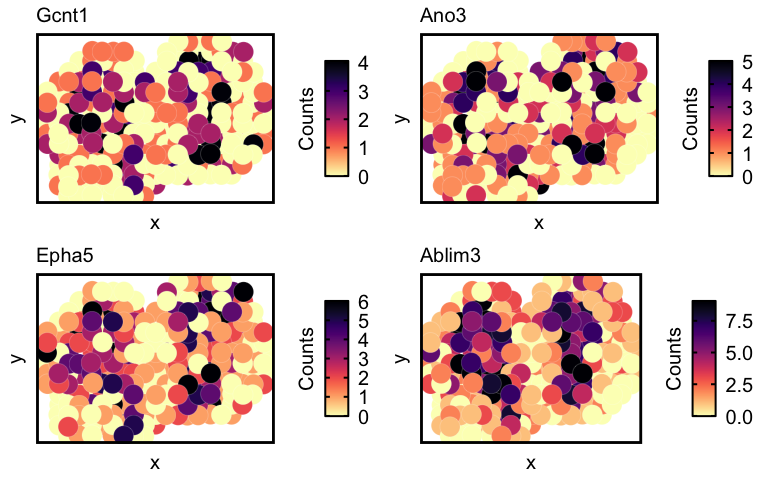
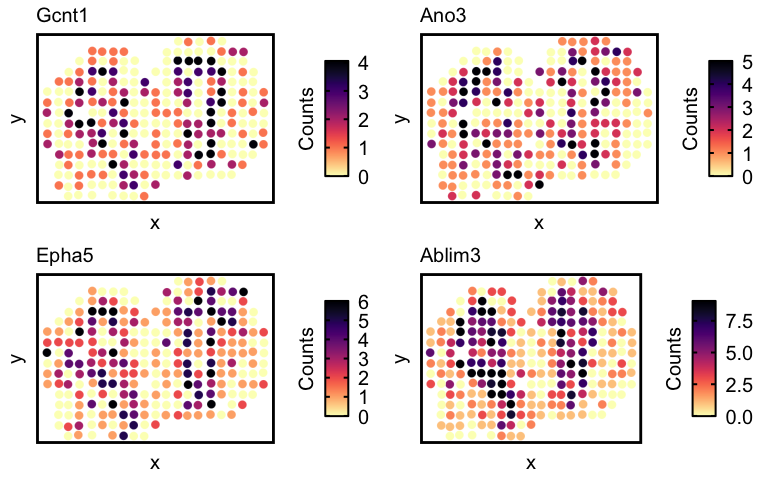
cleaned up getting_started image outputs

diff --git a/docs/getting_started.md b/docs/getting_started.md
@@ -81,52 +81,10 @@ ldas <- fitLDA(t(as.matrix(corpus)), Ks = seq(2, 9, by = 1),
                verbose=TRUE)
 ```
 
-    ## Warning in serialize(data, node$con): 'package:stats' may not be available when
-    ## loading
-
-    ## Warning in serialize(data, node$con): 'package:stats' may not be available when
-    ## loading
-
-    ## Warning in serialize(data, node$con): 'package:stats' may not be available when
-    ## loading
-
-    ## Warning in serialize(data, node$con): 'package:stats' may not be available when
-    ## loading
-
-    ## Warning in serialize(data, node$con): 'package:stats' may not be available when
-    ## loading
-
-    ## Warning in serialize(data, node$con): 'package:stats' may not be available when
-    ## loading
-
-    ## Warning in serialize(data, node$con): 'package:stats' may not be available when
-    ## loading
-
     ## [1] "Time to fit LDA models was 0.44mins"
     ## [1] "Computing perplexity for each fitted model..."
 
-    ## Warning in serialize(data, node$con): 'package:stats' may not be available when
-    ## loading
-
-    ## Warning in serialize(data, node$con): 'package:stats' may not be available when
-    ## loading
-
-    ## Warning in serialize(data, node$con): 'package:stats' may not be available when
-    ## loading
-
-    ## Warning in serialize(data, node$con): 'package:stats' may not be available when
-    ## loading
-
-    ## Warning in serialize(data, node$con): 'package:stats' may not be available when
-    ## loading
-
-    ## Warning in serialize(data, node$con): 'package:stats' may not be available when
-    ## loading
-
-    ## Warning in serialize(data, node$con): 'package:stats' may not be available when
-    ## loading
-
-    ## [1] "Time to compute perplexities was 0.17mins"
+    ## [1] "Time to compute perplexities was 0.14mins"
     ## [1] "Getting predicted cell-types at low proportions..."
     ## [1] "Time to compute cell-types at low proportions was 0mins"
     ## [1] "Plotting..."
@@ -261,13 +219,13 @@ ps <- lapply(markers, function(marker) {
               gene = marker,
               # groups = annot,
               # group_cols = rainbow(length(levels(annot))),
-              size = 7, stroke = 0.1,
+              size = 3, stroke = 0.1,
               plotTitle = marker,
               winsorize = 0.05,
               showLegend = TRUE) +
     
     ## remove the pixel "groups", which is the color aesthetic for the pixel borders
-    ggplot2::guides(colour = FALSE) +
+    ggplot2::guides(colour = "none") +
     
     ## change some plot aesthetics
     ggplot2::theme(axis.text.x = ggplot2::element_text(size=0, color = "black", hjust = 0, vjust = 0.5),
@@ -292,21 +250,6 @@ ps <- lapply(markers, function(marker) {
                                                    label.hjust = 0
                                                    ))
 })
-```
-
-    ## Warning: `guides(<scale> = FALSE)` is deprecated. Please use `guides(<scale> =
-    ## "none")` instead.
-
-    ## Warning: `guides(<scale> = FALSE)` is deprecated. Please use `guides(<scale> =
-    ## "none")` instead.
-
-    ## Warning: `guides(<scale> = FALSE)` is deprecated. Please use `guides(<scale> =
-    ## "none")` instead.
-
-    ## Warning: `guides(<scale> = FALSE)` is deprecated. Please use `guides(<scale> =
-    ## "none")` instead.
-
-``` r
 gridExtra::grid.arrange(
   grobs = ps,
   layout_matrix = rbind(c(1, 2),
@@ -386,13 +329,13 @@ ps <- lapply(markers, function(marker) {
               gene = marker,
               # groups = annot,
               # group_cols = rainbow(length(levels(annot))),
-              size = 7, stroke = 0.1,
+              size = 3, stroke = 0.1,
               plotTitle = marker,
               winsorize = 0.05,
               showLegend = TRUE) +
     
     ## remove the pixel "groups", which is the color aesthetic for the pixel borders
-    ggplot2::guides(colour = FALSE) +
+    ggplot2::guides(colour = "none") +
     
     ## change some plot aesthetics
     ggplot2::theme(axis.text.x = ggplot2::element_text(size=0, color = "black", hjust = 0, vjust = 0.5),
@@ -417,21 +360,6 @@ ps <- lapply(markers, function(marker) {
                                                    label.hjust = 0
                                                    ))
 })
-```
-
-    ## Warning: `guides(<scale> = FALSE)` is deprecated. Please use `guides(<scale> =
-    ## "none")` instead.
-
-    ## Warning: `guides(<scale> = FALSE)` is deprecated. Please use `guides(<scale> =
-    ## "none")` instead.
-
-    ## Warning: `guides(<scale> = FALSE)` is deprecated. Please use `guides(<scale> =
-    ## "none")` instead.
-
-    ## Warning: `guides(<scale> = FALSE)` is deprecated. Please use `guides(<scale> =
-    ## "none")` instead.
-
-``` r
 gridExtra::grid.arrange(
   grobs = ps,
   layout_matrix = rbind(c(1, 2),
